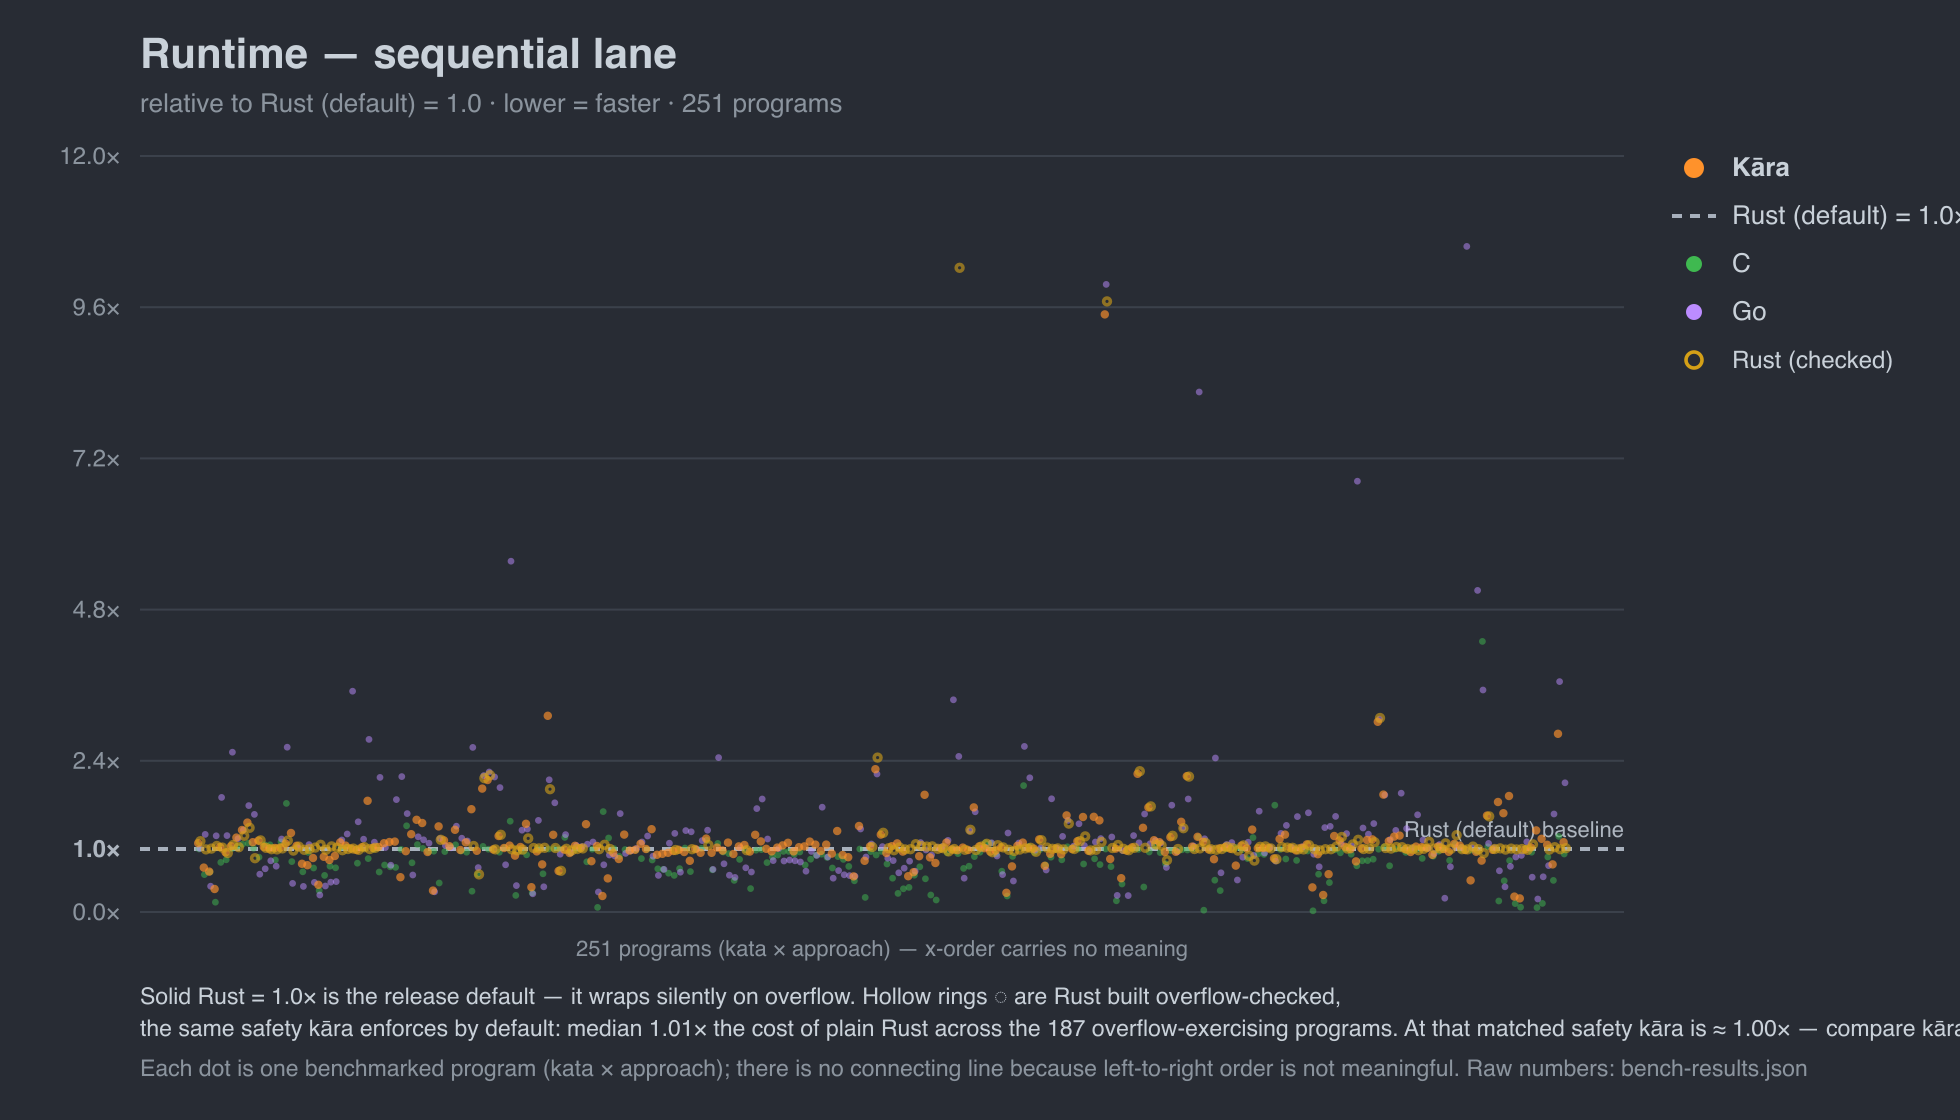
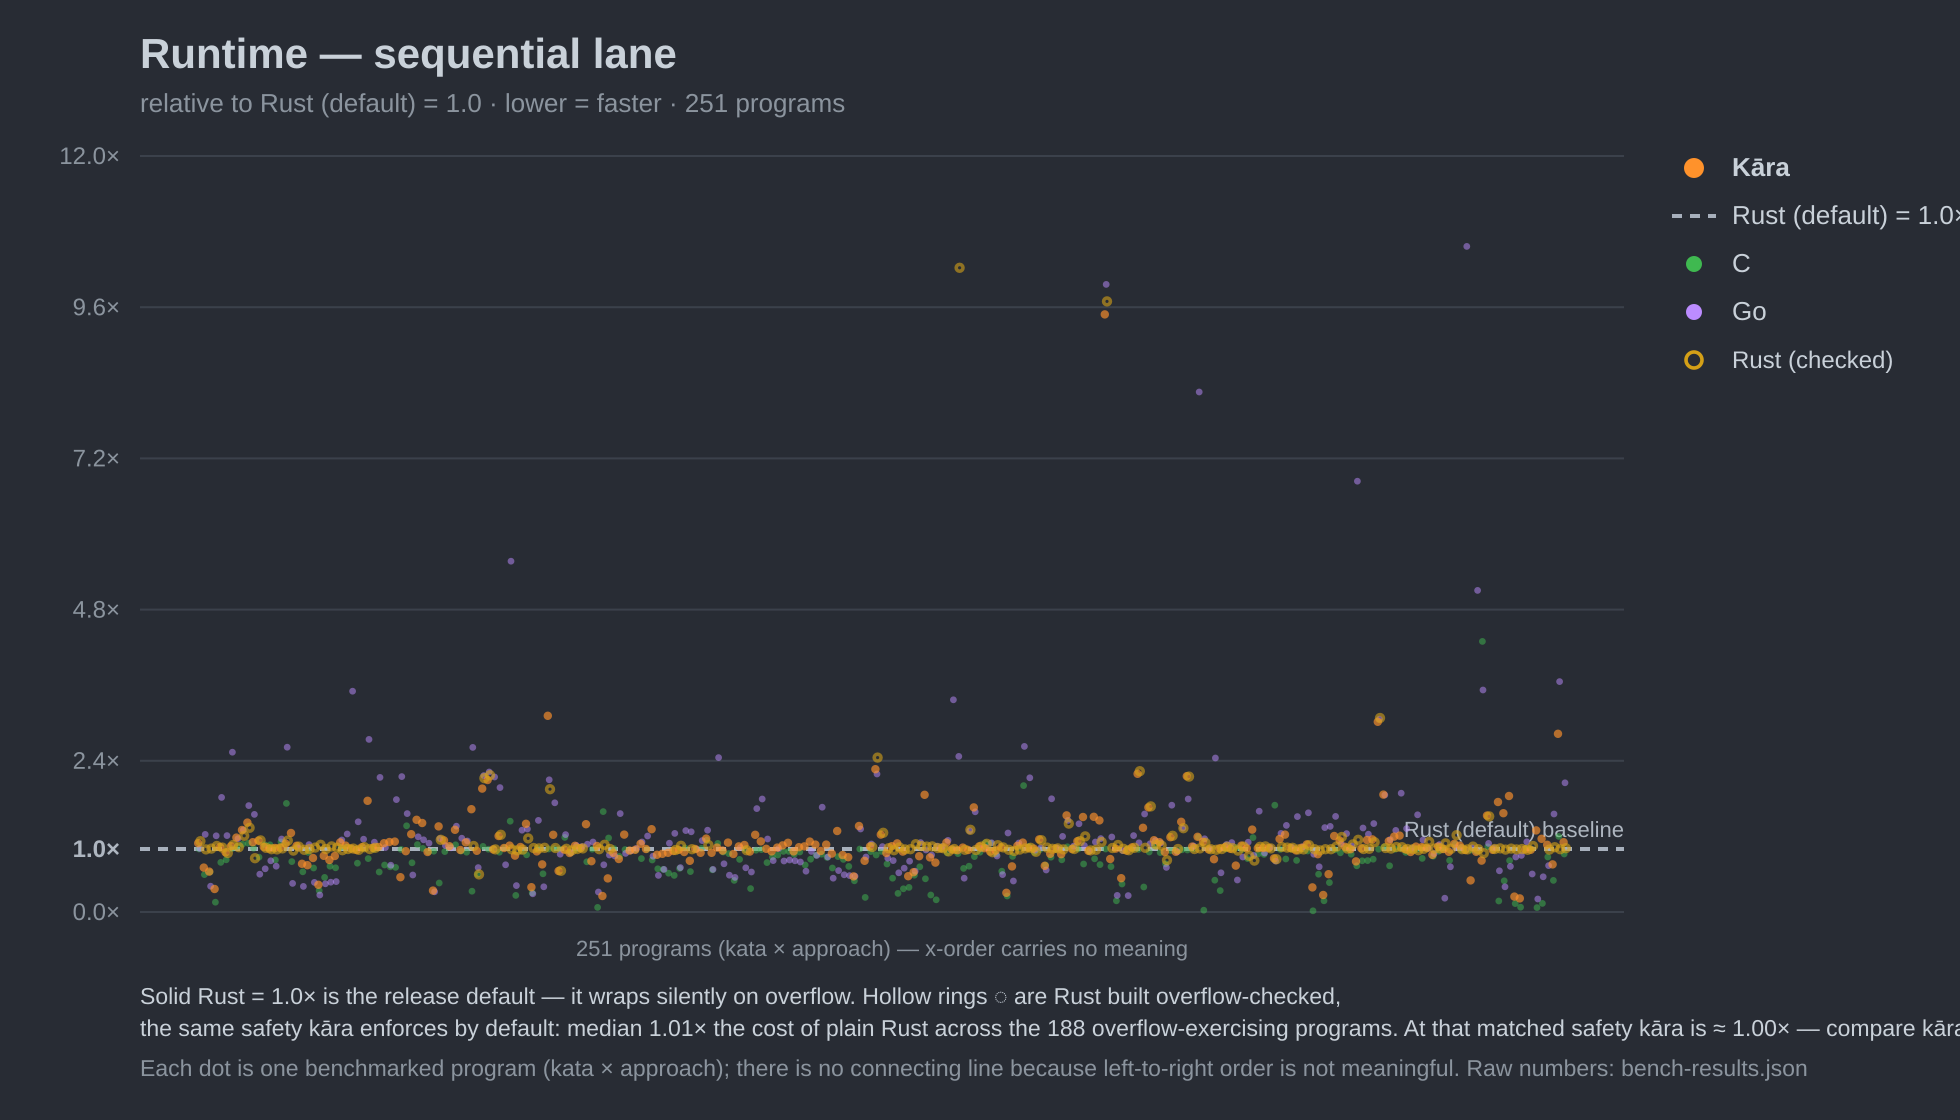
docs(readme): follow kata #133's par-lane restore into the charts and text
kara-katas 2603167 put #133 back in the parallel comparator set, which moves
three figures I refreshed one commit ago:

  par comparator    36 -> 37 programs
  beats rayon       nine -> ten  (#133 returns at 0.97x)
  beats goroutines  27 of 36 -> 28 of 37

Median (1.14x), the C-floor tie count (nine), best (#22 0.58x) and worst
(#3629 bfs_sieve) are unmoved -- rechecked, not assumed. Charts resynced
from the rebuilt PNGs.

Claude-Session: https://claude.ai/code/session_018MTanwwo4hyQgyZ6Ri3NNh

diff --git a/README.md b/README.md
@@ -334,10 +334,10 @@ program; lower is faster; everything relative to **Rust = 1.0**.
 
 ![Runtime, parallel lane — Kāra auto-par vs Rust rayon / Go / C-pthreads, relative to Rust](docs/assets/runtime-par.png)
 
-Across the **36 programs** that currently ship the full parallel comparator set,
+Across the **37 programs** that currently ship the full parallel comparator set,
 Kāra's auto-par runs at a median **1.14× of hand-tuned `rayon`** (typically within
-~10–15%), is **faster than `rayon` outright on nine** (best #22 0.58×, #20, #11,
-#86), beats Go's goroutines on **27 of 36** — often by multiples, as dispatch
+~10–15%), is **faster than `rayon` outright on ten** (best #22 0.58×, #20, #11,
+#86), beats Go's goroutines on **28 of 37** — often by multiples, as dispatch
 overhead swamps fine-grained reductions — and **edges or matches the raw-pthreads
 C floor on nine** of the allocation-heavy ones, for **none** of the engineering
 cost. It is not uniformly fastest — a few string-/allocation-churn kernels trail
